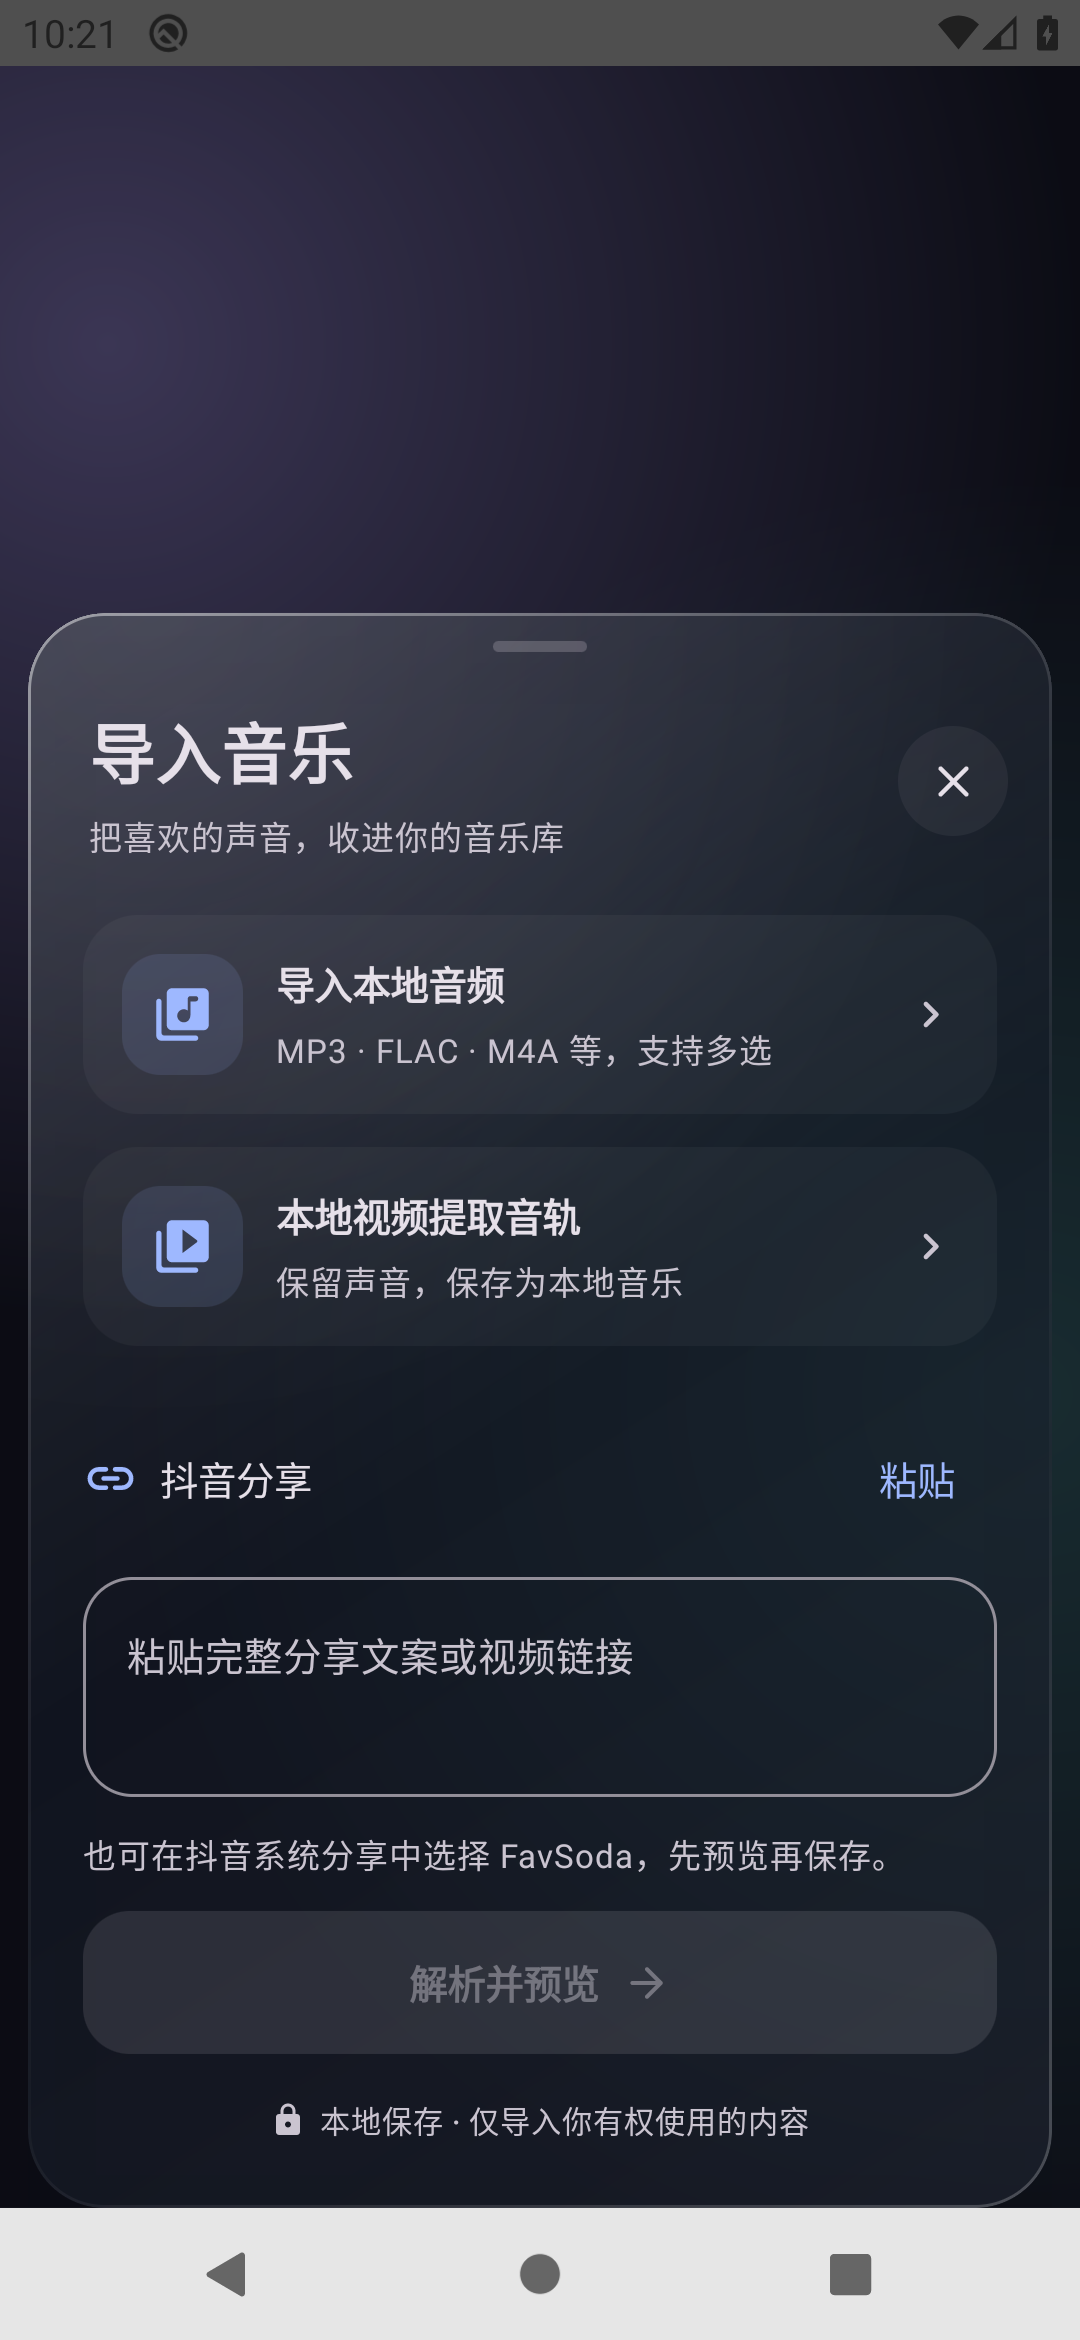
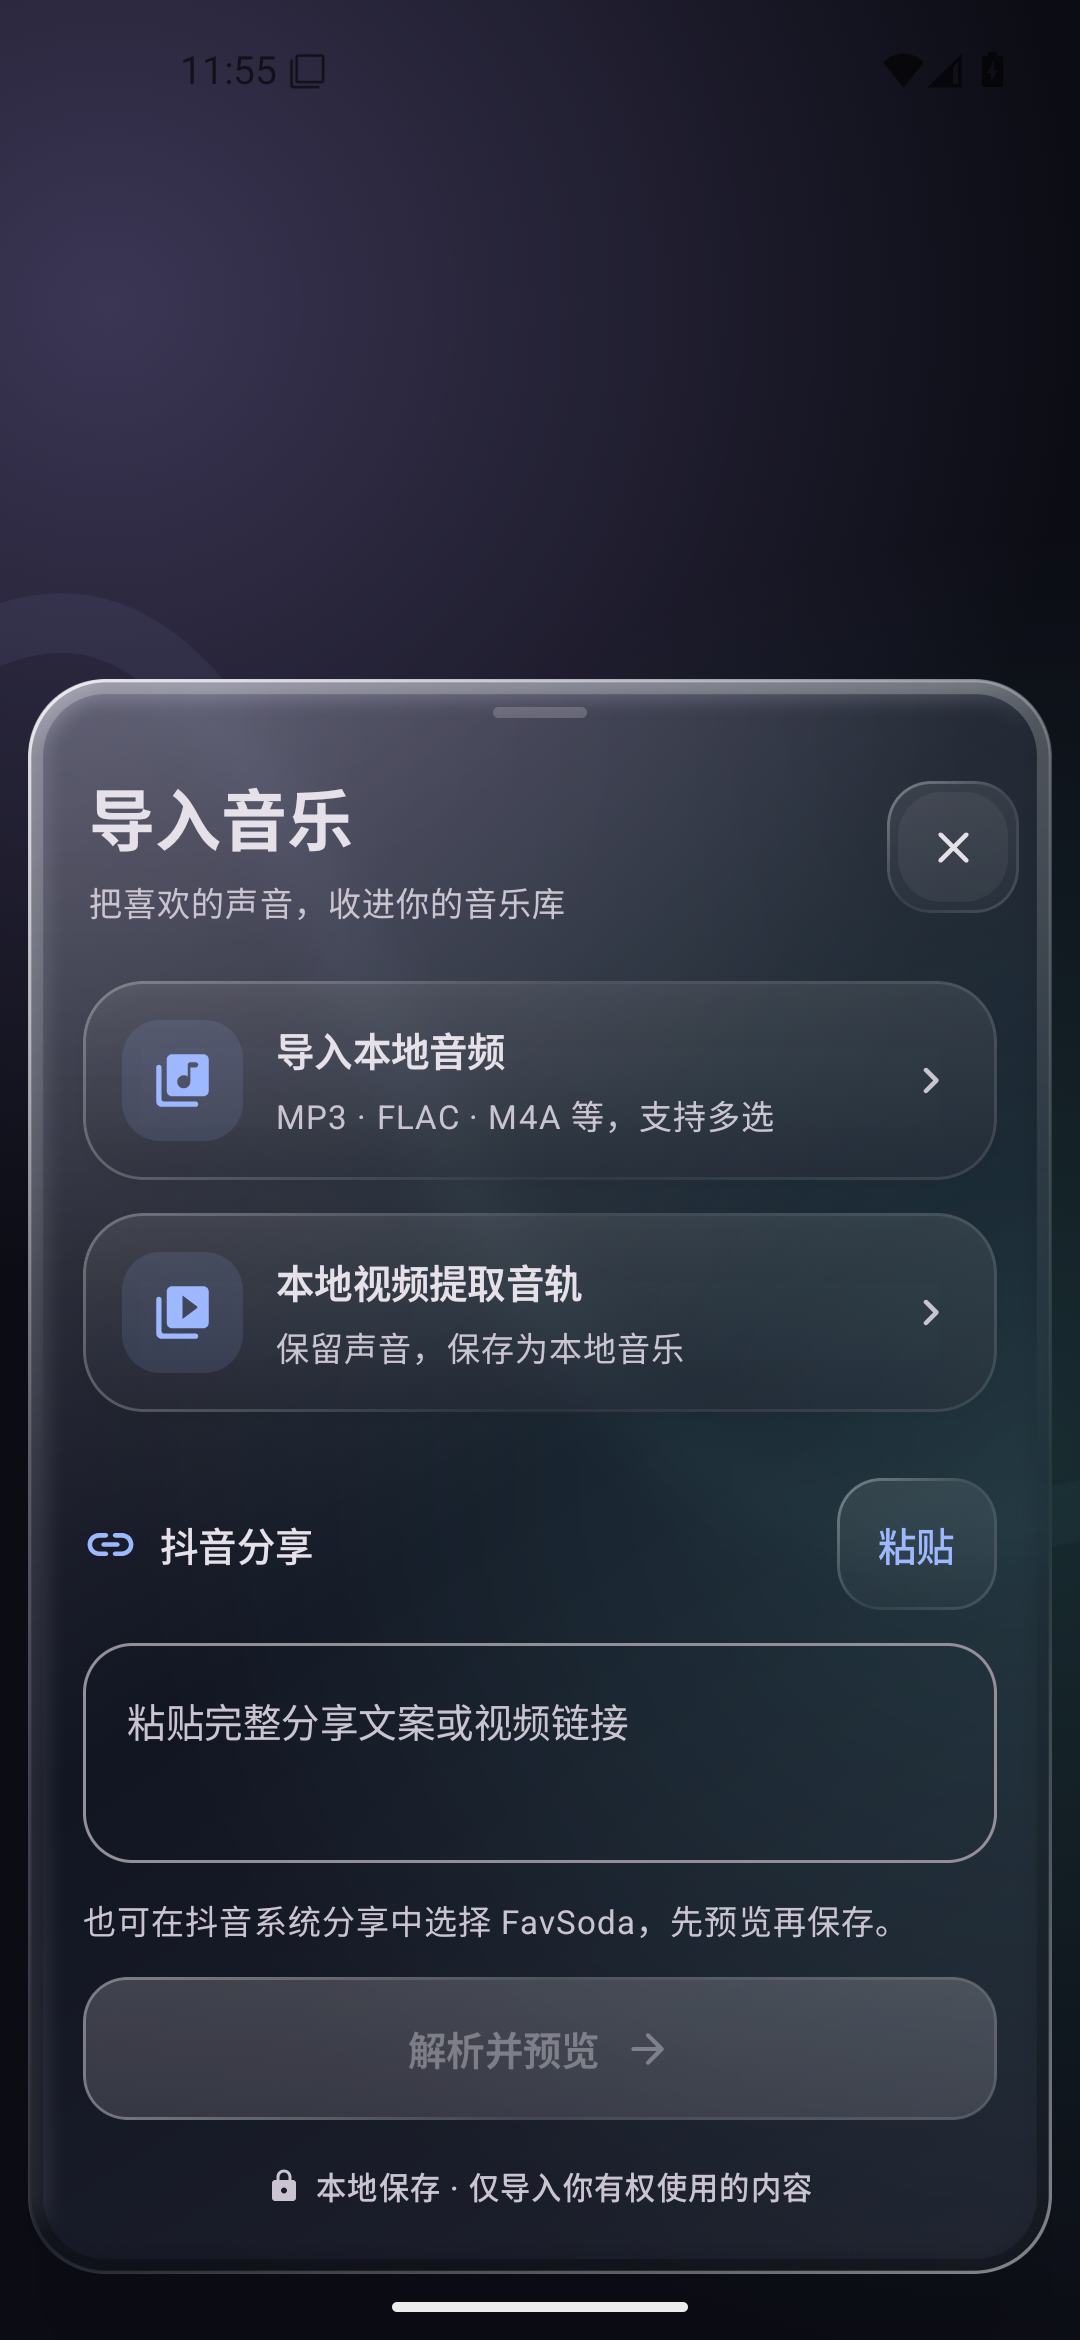
docs: publish queue consistency verification and rendered panels [skip ci]

diff --git a/docs/QUEUE.md b/docs/QUEUE.md
@@ -1,0 +1,17 @@
+# 播放队列一致性
+
+## 顺序与操作映射
+
+队列读取播放器 Timeline 的实际顺序：从 `getFirstWindowIndex(shuffleModeEnabled)` 开始，以 `getNextWindowIndex(index, REPEAT_MODE_OFF, shuffleModeEnabled)` 遍历。单曲循环不截断显示列表。中间态不完整时回退到原索引列表，避免丢失项目。
+
+每个 `QueueEntry` 保留原始 `timelineIndex` 和 `MediaItem`。界面显示位置与播放器命令索引分开处理：点击播放和移出歌曲使用原始索引；高亮及“定位当前”使用当前项目在显示列表中的位置。
+
+设备测试使用固定随机顺序 `Three → One → Two`，验证显示顺序、当前行位置，以及点击和移出后实际操作的是对应歌曲。
+
+## 媒体资料更新
+
+资料库歌曲变化后，`syncQueueMetadata` 比较标题、艺术家、封面 URI 和时长。只有这些字段不同才更新媒体信息；收藏状态等变化不触发替换。
+
+更新通过原项目 `buildUpon().setMediaMetadata(...)` 构造，保留原始媒体来源，不重建整个队列。设备测试核对标题、艺术家与封面更新，并验证当前进度、播放意图和随机顺序保持一致。
+
+字体、图标和玻璃样式沿用现有资源。本轮改动重点是队列行为与验收一致性。

diff --git a/README.md b/README.md
@@ -4,7 +4,7 @@
 
 开源、离线优先、可自定义的 Android 玻璃风格音乐播放器。
 
-1.0.9：左上角使用有渐变高光与柔和厚度的气泡字标；底部选中区域复用其他按钮的玻璃底座，适度加强高光与浅阴影。[图标资源](docs/ICON.md) · [玻璃实现](docs/GLASS.md)。
+1.0.10：随机队列按真实播放顺序显示，编辑封面和标题后同步更新队列媒体信息。[队列实现与验证](docs/QUEUE.md)。气泡字标、统一玻璃按钮及浅色图标已集成。
 
 <p>
   <img src="docs/screenshots/icon-rounded-square.png" width="80" alt="圆角方形图标预览" />
@@ -20,8 +20,9 @@
   <img src="docs/screenshots/separated-list.png" width="230" alt="列表层次示例（测试素材）" />
 </p>
 <details>
-<summary>二级界面布局（1.0.4）</summary>
+<summary>当前二级界面</summary>
 <p>
+  <img src="docs/screenshots/queue-sheet.png" width="230" alt="玻璃播放队列" />
   <img src="docs/screenshots/import-sheet.png" width="230" alt="玻璃导入面板" />
   <img src="docs/screenshots/song-menu.png" width="230" alt="分组歌曲操作" />
 </p>

diff --git a/docs/TESTING.md b/docs/TESTING.md
@@ -121,3 +121,13 @@
 - 原有主界面检查继续验证品牌标题唯一可见、导航选择及取消、字体资源实际加载和完整播放交互。
 - 已核对两套设备的字标与底部导航截图，实际音乐库截图已更新到 README。
 - APK 1.0.9 / versionCode 19，继续支持原包名、原签名的覆盖升级。
+
+
+## 1.0.10 队列行为与渲染验收
+
+- 26 项 JVM 测试、Debug/Release 静态检查及签名构建通过。
+- Android 10 / Android 15 各 23 项设备测试通过：[最终 CI](https://github.com/winner798/GlassBeat/actions/runs/42213156116)。
+- 新增固定随机顺序、单曲循环下的完整队列、重排后播放与移除、清空队列验证。
+- 元数据更新验证保留当前媒体来源、12345ms 播放位置、播放意图及随机顺序；已有歌曲列表结构不重建。
+- 截图使用系统合成画面，等待测试面板实际绘制并检查图像内容；已查看两套系统的队列、导入和歌曲菜单截图，README 图像已更新。
+- APK 1.0.10 / versionCode 20，继续使用原包名和签名覆盖升级。

diff --git a/CHANGELOG.md b/CHANGELOG.md
@@ -3,7 +3,6 @@
 ## 1.0.10
 
 - 同步资料库中的封面、标题等媒体信息到现有播放队列，避免继续引用旧封面。
-
 - 修复随机播放时队列仍显示原始列表顺序，改为读取播放器实际顺序。
 - 队列重排后点击、移出和定位当前歌曲使用正确的原始索引与显示位置。
 - 修正二级面板截图根节点选择，验收截图覆盖实际弹出面板。
